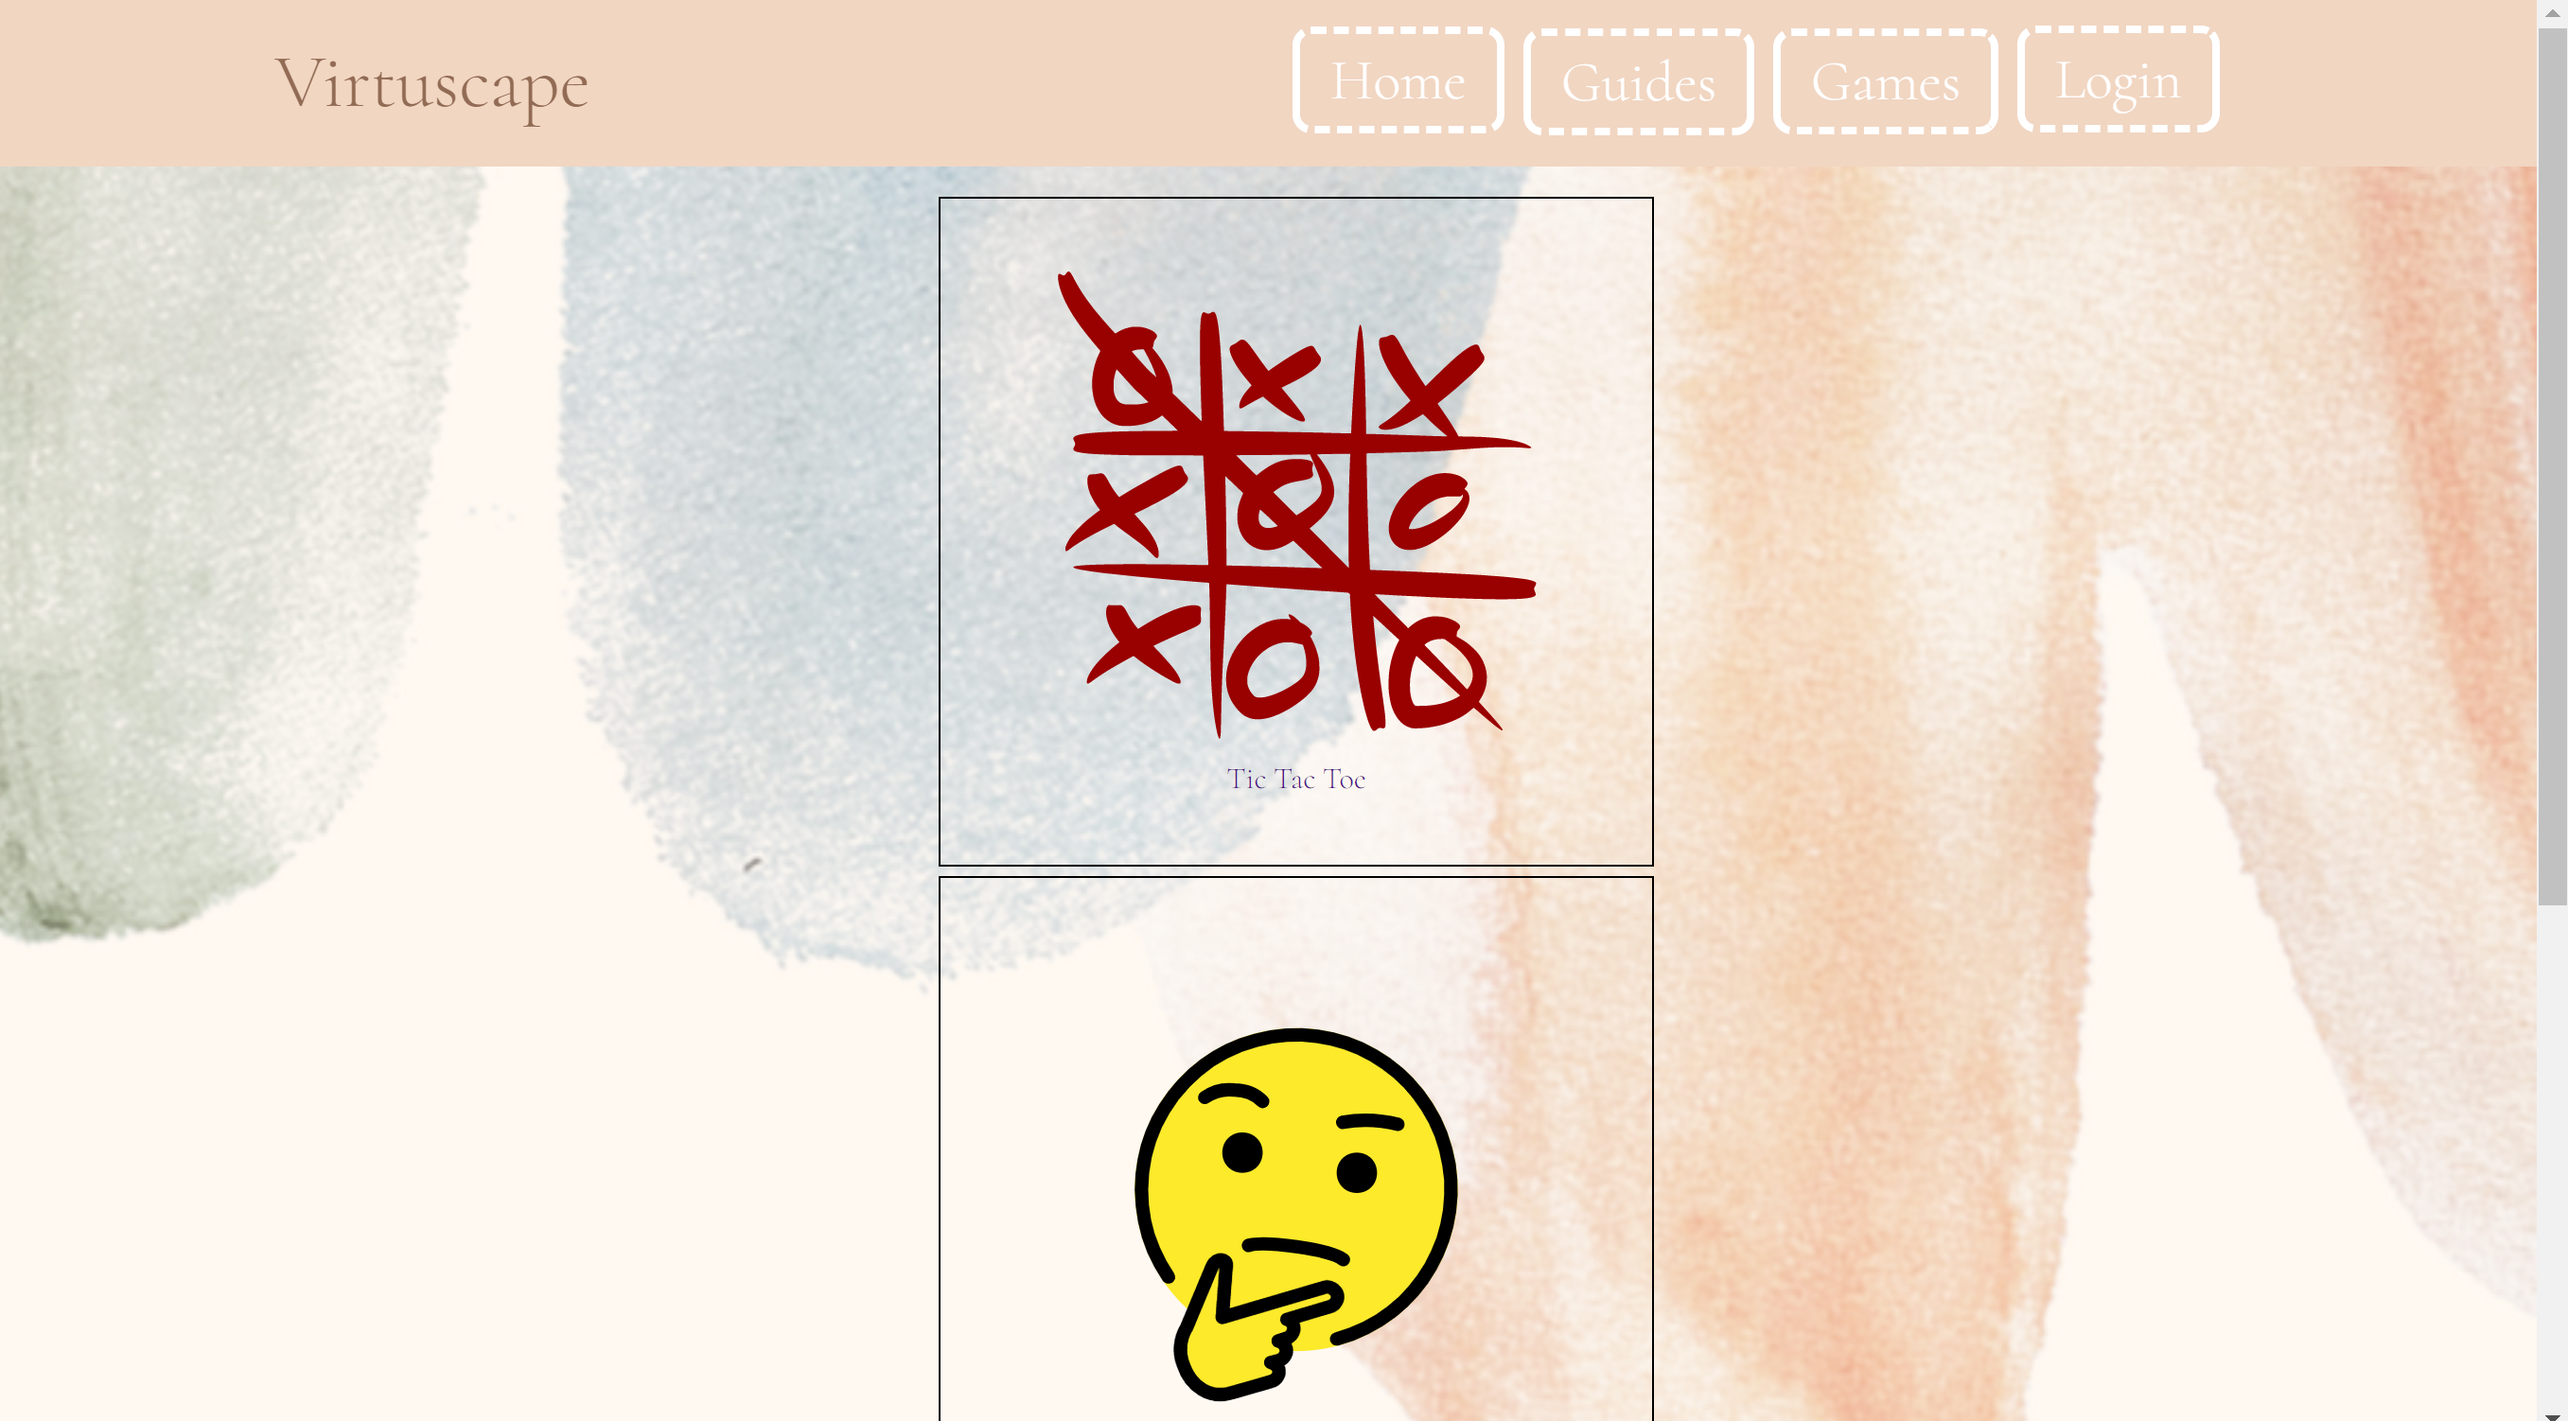
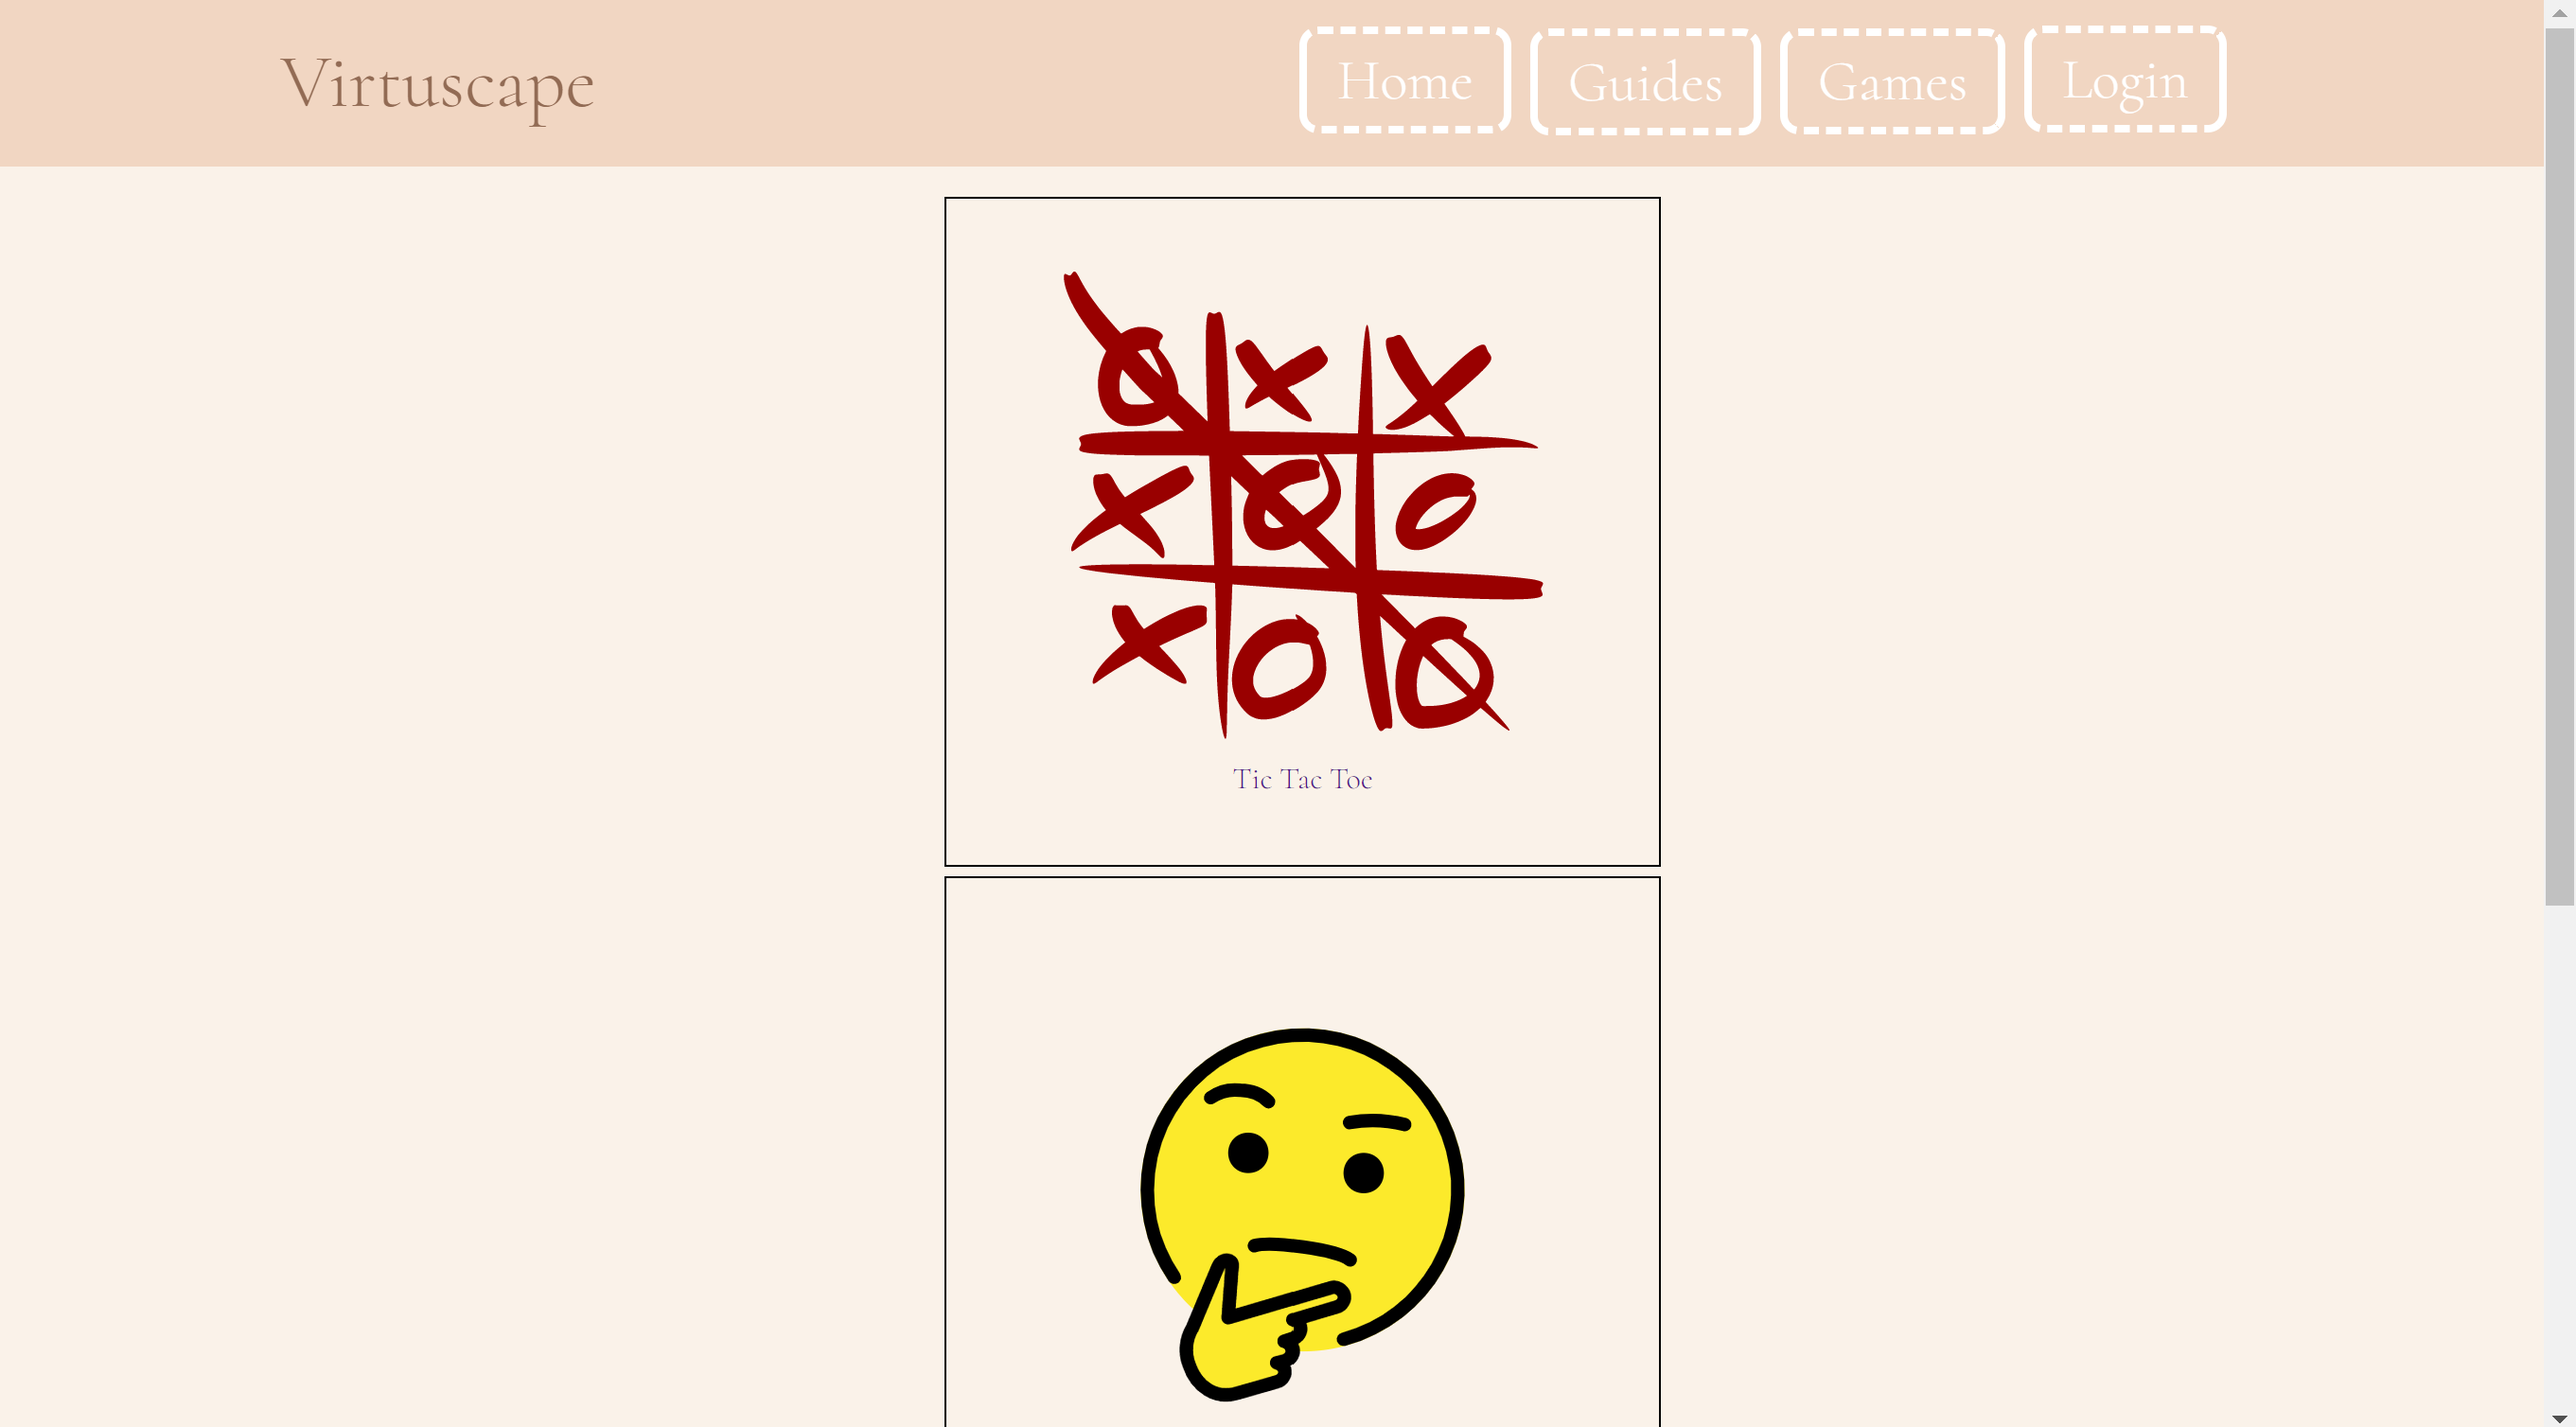
changed css styling for games and added pictures

diff --git a/frontend/src/routes/games/rock-paper-scissor.js b/frontend/src/routes/games/rock-paper-scissor.js
@@ -1,4 +1,5 @@
 import {useEffect, useState} from "react";
+import "./rock-paper-scissor.css";
 
 const ImageButton = (props) => (
     <button value={props.value} onClick={props.onClick}>
@@ -73,41 +74,45 @@ export default function RockPaperScissor() {
     }, [userChoice, gameRound]);
     return (
         <>
-            <ul id={'rps-choices'}>
-                {buttonData.map(c => {
-                    const props = {
-                        onClick: () => {
-                            setUserChoice(c.value);
-                            setAiChoice('');
-                            setGameRound(gameRound + 1);
-                            setFetching(true);
-                        }, ...c
-                    };
-                    return <li key={c.key}>
-                        {ImageButton(props)}
-                    </li>
-                })}
-            </ul>
-            <p>You Chose:</p>
-            {userChoice
-                ? (<ImageButton onClick={() => {
-                    console.log(userChoice, choiceId[userChoice]);
-                    console.log(aiChoice, choiceId[aiChoice]);
-                }}
-                                value={buttonData[choiceId[userChoice]].value}
-                                image={buttonData[choiceId[userChoice]].image}/>)
-                : (<></>)
-            }
-            <p>AI Chose: </p>
-            {aiChoice
-                ? (<ImageButton onClick={() => {
-                    console.log(aiChoice, choiceId[aiChoice])
-                }}
-                                value={buttonData[choiceId[aiChoice]].value}
-                                image={buttonData[choiceId[aiChoice]].image}/>)
-                : (fetching ? (<div className={'spinner'}></div>) : (<></>))
-            }
-            <h2>{message}</h2>
+            <div id = "rpscontainer" class = "container">
+                <ul id={'rps-choices'}>
+                    {buttonData.map(c => {
+                        const props = {
+                            onClick: () => {
+                                setUserChoice(c.value);
+                                setAiChoice('');
+                                setGameRound(gameRound + 1);
+                                setFetching(true);
+                            }, ...c
+                        };
+                        return <li key={c.key}>
+                            {ImageButton(props)}
+                        </li>
+                    })}
+                </ul>
+                <p>You Chose:</p>
+                {userChoice
+                    ? (<ImageButton onClick={() => {
+                        console.log(userChoice, choiceId[userChoice]);
+                        console.log(aiChoice, choiceId[aiChoice]);
+                    }}
+                                    value={buttonData[choiceId[userChoice]].value}
+                                    image={buttonData[choiceId[userChoice]].image}/>)
+                    : (<></>)
+                }
+                <p>AI Chose: </p>
+                <div id ="ai">
+                    {aiChoice
+                        ? (<ImageButton onClick={() => {
+                            console.log(aiChoice, choiceId[aiChoice])
+                        }}
+                                        value={buttonData[choiceId[aiChoice]].value}
+                                        image={buttonData[choiceId[aiChoice]].image}/>)
+                        : (fetching ? (<div className={'spinner'}></div>) : (<></>))
+                    }
+                </div>
+                <h2>{message}</h2>
+            </div>
         </>
     )
 }

diff --git a/frontend/src/index.css b/frontend/src/index.css
@@ -6,11 +6,7 @@ body {
     -webkit-font-smoothing: antialiased;
     -moz-osx-font-smoothing: grayscale;
     text-align: center;
-    background: url("../public/Watercolor.png");
-    /* Center and scale the image nicely */
-    background-position: bottom;
-    background-repeat: no-repeat;
-    background-size: cover;
+    background-color: #FAF2E9;
 }
 
 code {
@@ -20,10 +16,6 @@ code {
 
 body a {
   text-decoration: none;
-}
-
-#rps-choices li {
-    display: inline-block;
 }
 
 #guides li {
@@ -38,26 +30,4 @@ body a {
   list-style: none;
   margin: 5px auto;
   padding: 20px;
-}
-
-/* Adapted from https://www.w3schools.com/howto/howto_css_loader.asp */
-.spinner {
-    border: 4px solid #f3f3f3;
-    border-radius: 50%;
-    border-top: 4px solid #000;
-    width: 30px;
-    height: 30px;
-    -webkit-animation: spin 2s linear infinite; /* Safari */
-    animation: spin 2s linear infinite;
-}
-
-/* Safari */
-@-webkit-keyframes spin {
-    0% { -webkit-transform: rotate(0deg); }
-    100% { -webkit-transform: rotate(360deg); }
-}
-
-@keyframes spin {
-    0% { transform: rotate(0deg); }
-    100% { transform: rotate(360deg); }
 }

diff --git a/frontend/src/routes/games/rock-paper-scissor.css b/frontend/src/routes/games/rock-paper-scissor.css
@@ -1,0 +1,37 @@
+#rpscontainer {
+  height: 90vh;
+}
+
+#rps-choices li {
+    display: inline-block;
+    margin-right: 5px;
+    margin-top: 50px;
+}
+
+/* centers the spinner*/
+#ai {
+  width: fit-content;
+  margin: auto;
+}
+
+/* Adapted from https://www.w3schools.com/howto/howto_css_loader.asp */
+.spinner {
+    border: 4px solid #f3f3f3;
+    border-radius: 50%;
+    border-top: 4px solid #000;
+    width: 30px;
+    height: 30px;
+    -webkit-animation: spin 2s linear infinite; /* Safari */
+    animation: spin 2s linear infinite;
+}
+
+/* Safari */
+@-webkit-keyframes spin {
+    0% { -webkit-transform: rotate(0deg); }
+    100% { -webkit-transform: rotate(360deg); }
+}
+
+@keyframes spin {
+    0% { transform: rotate(0deg); }
+    100% { transform: rotate(360deg); }
+}

diff --git a/frontend/src/routes/games/tick-tac-toe.js b/frontend/src/routes/games/tick-tac-toe.js
@@ -58,7 +58,7 @@ function Board({ xIsNext, squares, onPlay }) {
 export default function Game() {
     //styles the overflow for this page only
     document.body.style.overflow = "hidden";
-    
+
     const [history, setHistory] = useState([Array(9).fill(null)]);
     const [currentMove, setCurrentMove] = useState(0);
     const xIsNext = currentMove % 2 === 0;
@@ -89,7 +89,7 @@ export default function Game() {
     });
 
     return (
-        <div className="game">
+        <div id="game" class = "container">
             <div className="game-board">
                 <Board xIsNext={xIsNext} squares={currentSquares} onPlay={handlePlay} />
             </div>

diff --git a/frontend/src/components/homepage.js b/frontend/src/components/homepage.js
@@ -4,9 +4,11 @@ import './homepage.css';
 export function HomePage() {
   return (
     <>
-        <div id = "comment">
-            <h1>VIRTUSCAPE</h1>
-            <h2>When modern meets classic</h2>
+        <div class = "container" id = "home">
+            <div id = "comment">
+                <h1>VIRTUSCAPE</h1>
+                <h2>When modern meets classic</h2>
+            </div>
         </div>
     </>
   );

diff --git a/frontend/src/components/homepage.css b/frontend/src/components/homepage.css
@@ -1,5 +1,18 @@
 @import url('https://fonts.googleapis.com/css2?family=Allura&display=swap');
 
+.container {
+    background: url("./images/Watercolor.png");
+    height: 100vh;
+    /* Center and scale the image nicely */
+    background-position: center;
+    background-repeat: no-repeat;
+    background-size: cover;
+}
+
+#home {
+  overflow: hidden;
+}
+
 #comment {
   height: 95vh;
   display: flex;

diff --git a/frontend/src/routes/games/guessing.css b/frontend/src/routes/games/guessing.css
@@ -1,8 +1,3 @@
-.container {
-  overflow: hidden;
-  height: 100vh;
-}
-
 #guessing {
   padding: 10px;
   width: fit-content;
@@ -11,8 +6,9 @@
   position: absolute;
   top: 50%;
   left: 50%;
-  -ms-transform: translate(-50%, -50%);
-  transform: translate(-50%, -50%);
+  -ms-transform: translate(-50%, -30%);
+  transform: translate(-50%, -30%);
+  overflow: hidden;
 }
 
 #guessing input {

diff --git a/frontend/src/error-page.js b/frontend/src/error-page.js
@@ -9,7 +9,7 @@ export default function ErrorPage() {
     return (
         <>
             <Navbar/>
-            <div id="error-page">
+            <div class = "container">
                 <div id = "message">
                     <h1>Oops!</h1>
                     <p>Sorry, an unexpected error has occurred.</p>

diff --git a/frontend/src/routes/games/tick-tac-toe.css b/frontend/src/routes/games/tick-tac-toe.css
@@ -1,6 +1,7 @@
-.game {
+#game {
   text-align: center;
-  height: 90vh;
+  height: 100vh;
+  border: 0.01px solid transparent;
 }
 
 /*the text at the top where displays player*/

diff --git a/frontend/src/error-page.css b/frontend/src/error-page.css
@@ -2,10 +2,6 @@ body {
   overflow: hidden;
 }
 
-#error-page {
-  height: 100vh;
-}
-
 #message {
   width: fit-content;
   padding: 10px;
